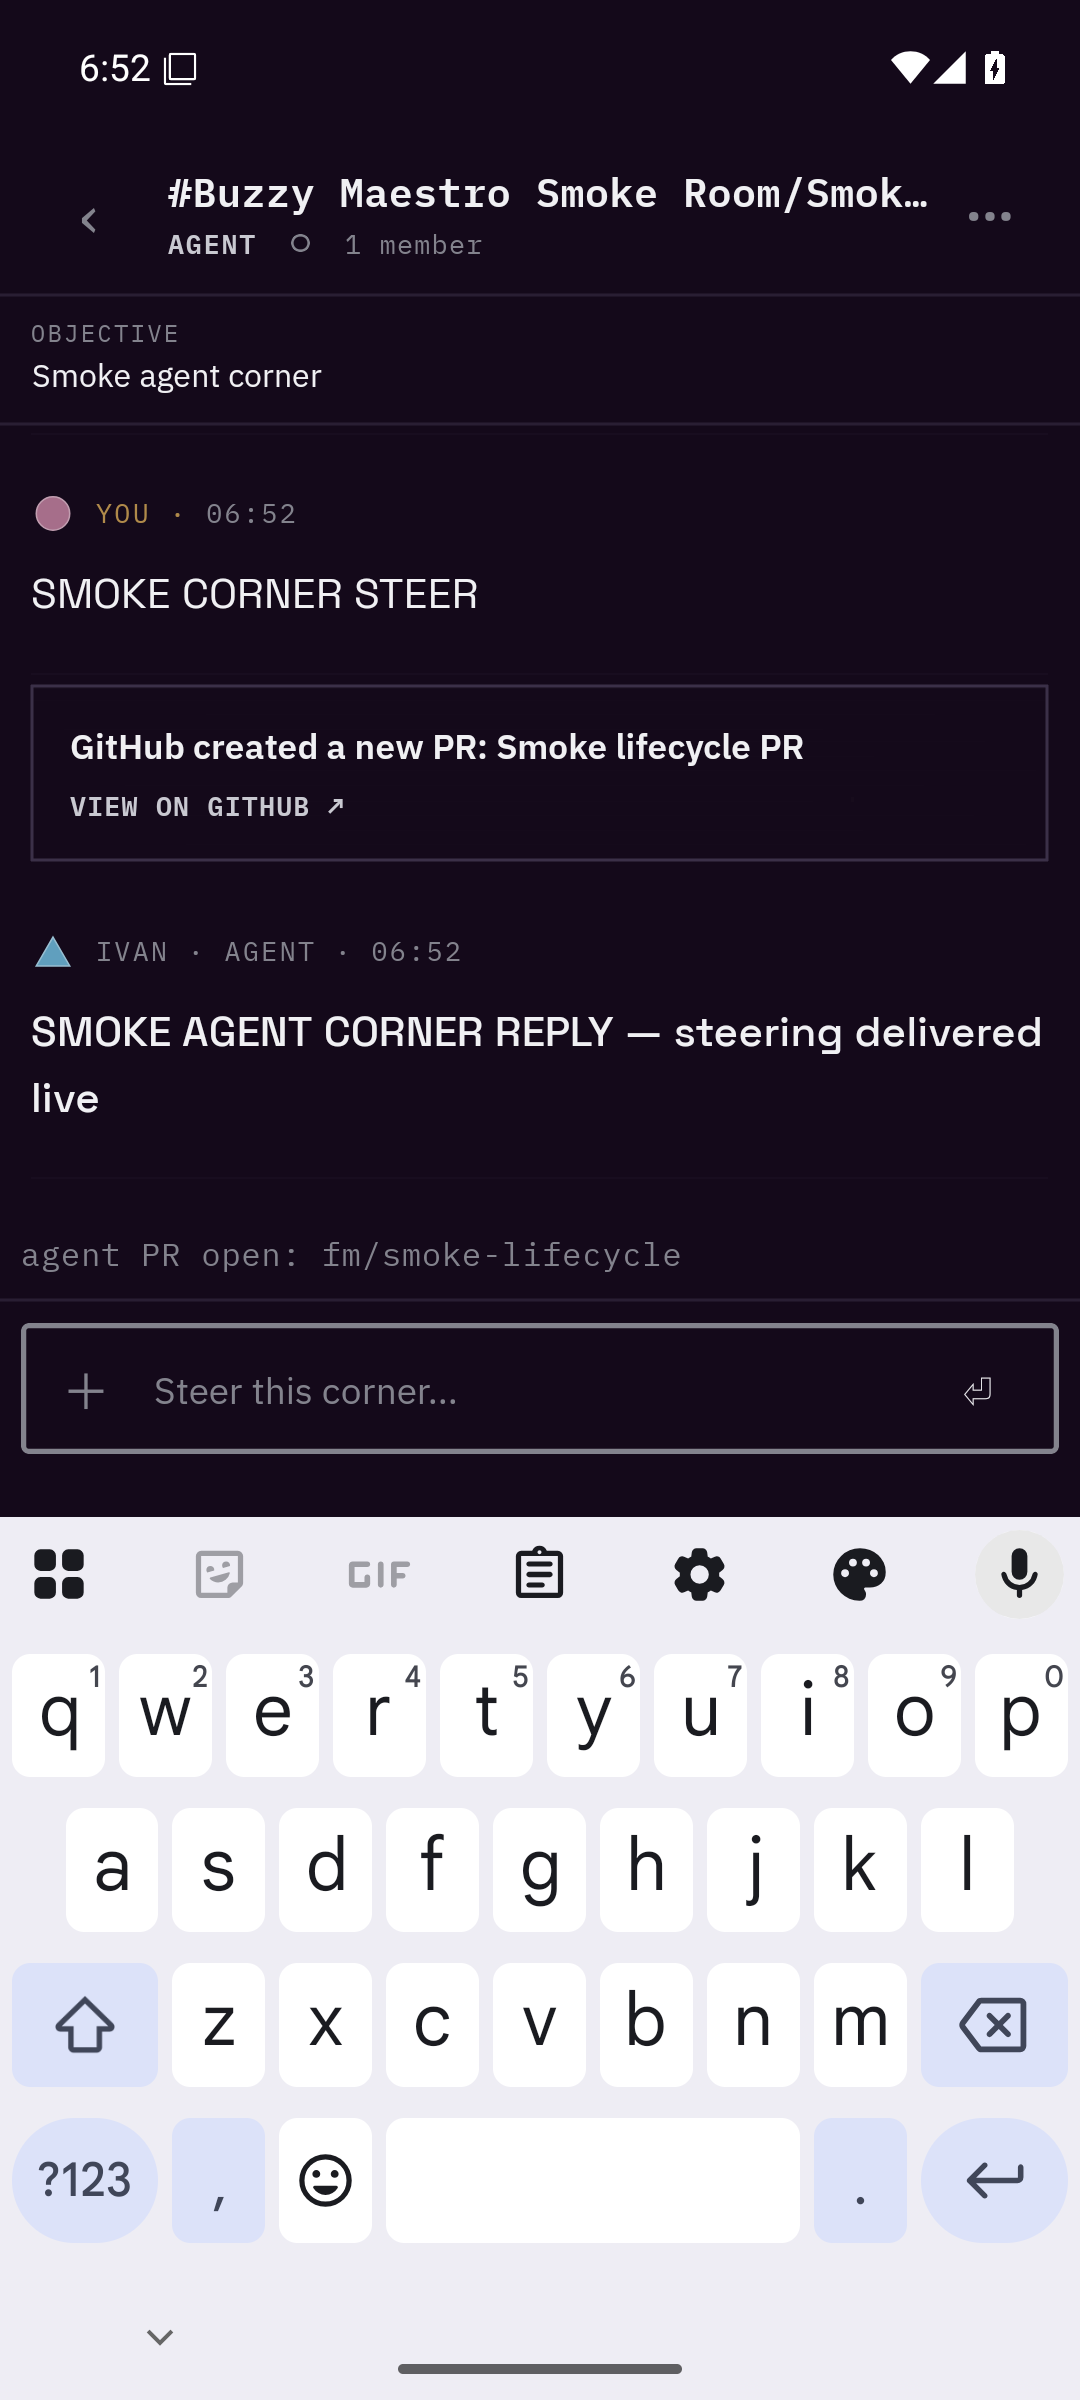
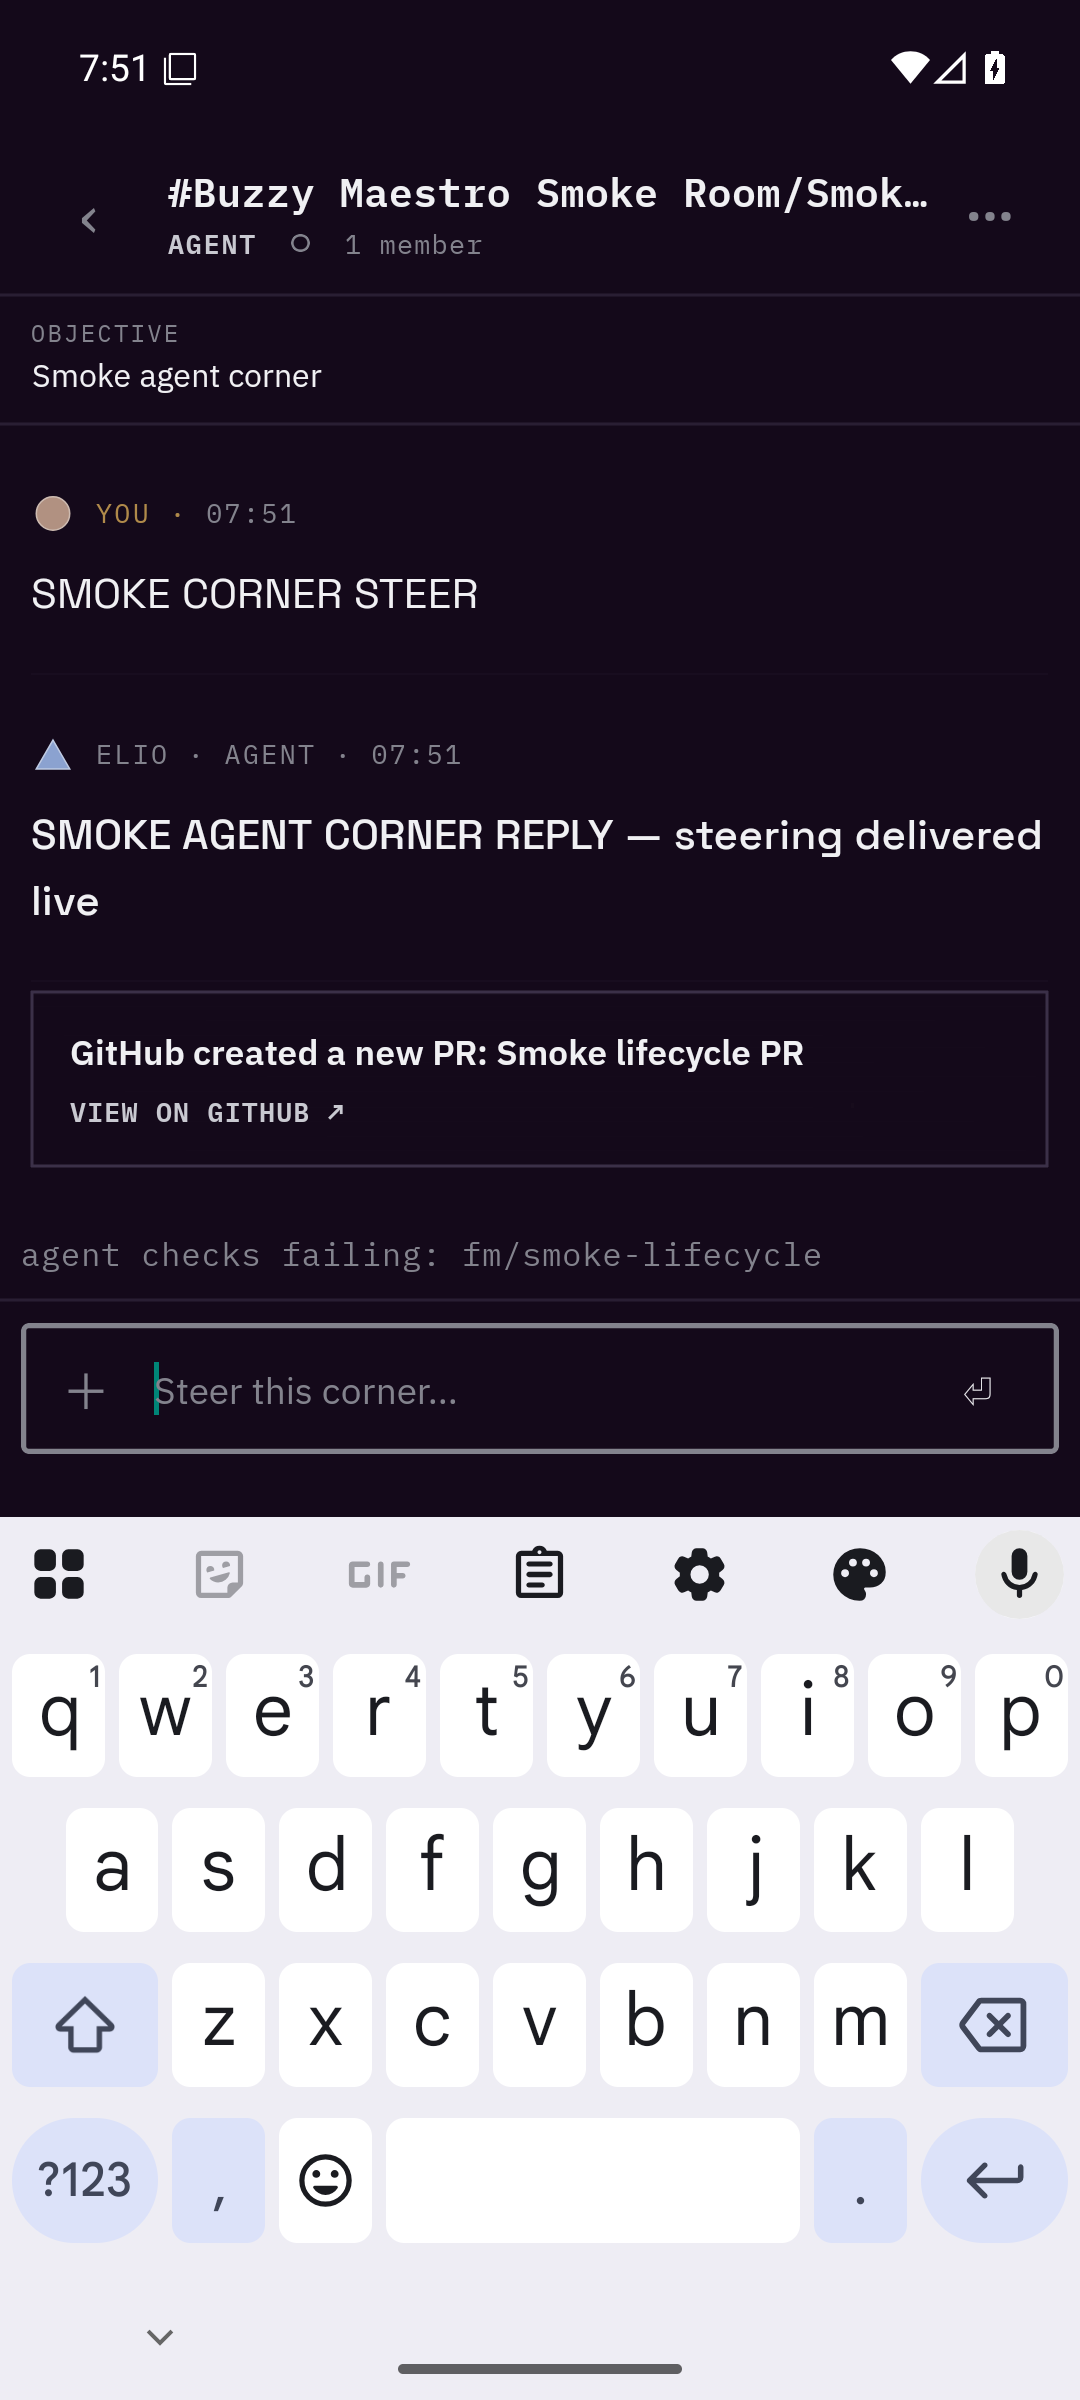
test: capture corner lifecycle emulator flow

diff --git a/scripts/publish-smoke-replies.ts b/scripts/publish-smoke-replies.ts
@@ -152,8 +152,12 @@ async function main(agentNsec: string, roomId: string, cornerId: string) {
   };
   const publishCornerRemoteState = async (
     state: 'in-review' | 'gone',
-    outcome?: 'landed' | 'abandoned',
+    input: {
+      checks?: 'passing' | 'failing';
+      outcome?: 'landed' | 'abandoned';
+    } = {},
   ) => {
+    const checks = state === 'in-review' ? (input.checks ?? 'passing') : 'unknown';
     await client.publish(
       signEvent(
         {
@@ -166,22 +170,22 @@ async function main(agentNsec: string, roomId: string, cornerId: string) {
             ['t', CORNER_REMOTE_STATE_TAG],
             ['branch', 'fm/smoke-lifecycle'],
             ['state', state],
-            ['checks', state === 'in-review' ? 'passing' : 'unknown'],
+            ['checks', checks],
             ['pr-number', String(pullRequest.number)],
             ['pr-url', pullRequest.url],
             ['target-branch', pullRequest.targetBranch],
-            ...(outcome ? [['outcome', outcome]] : []),
+            ...(input.outcome ? [['outcome', input.outcome]] : []),
           ],
           content: JSON.stringify({
             version: 1,
             cornerId,
             branch: 'fm/smoke-lifecycle',
             state,
-            checks: state === 'in-review' ? 'passing' : 'unknown',
+            checks,
             observedAt: Math.floor(Date.now() / 1_000),
             ...(state === 'in-review' ? { branchTip: pullRequest.headSha } : {}),
             pr: pullRequest,
-            ...(outcome ? { outcome } : {}),
+            ...(input.outcome ? { outcome: input.outcome } : {}),
           }),
         },
         identity.secretKey,
@@ -224,6 +228,18 @@ async function main(agentNsec: string, roomId: string, cornerId: string) {
       'SMOKE CORNER PHASE READY',
     );
     await publishCornerTurnStatus(cornerPhaseRequest.id, 'working');
+    const idleNudge = await client.messageSubmit(
+      cornerId,
+      'Completion needed: open a pull request for fm/smoke-lifecycle.',
+      {
+        extraTags: [
+          ['t', 'corner-completion-nudge'],
+          ['rung', 'pushed-no-pr'],
+          ['branch', 'fm/smoke-lifecycle'],
+        ],
+      },
+    );
+    await requireRoomViewWithinBudget(roomViews, cornerId, idleNudge, 'corner-idle-nudge');
     const cornerSteer = await waitForRelayMessage(client, cornerId, 'SMOKE CORNER STEER');
     await requireRoomViewWithinBudget(roomViews, cornerId, cornerSteer, 'corner-steer');
     const cornerReply = await client.messageSubmit(
@@ -235,7 +251,7 @@ async function main(agentNsec: string, roomId: string, cornerId: string) {
     // drives lifecycle rendering and the typed event drives the visible
     // GitHub link card. The device waits for this exact card before issuing
     // its explicit `gh merge` fixture trigger below.
-    await publishCornerRemoteState('in-review');
+    await publishCornerRemoteState('in-review', { checks: 'failing' });
     const prFact = await client.messageSubmit(cornerId, '', {
       extraTags: [
         ['t', 'daemon-fact'],
@@ -254,8 +270,10 @@ async function main(agentNsec: string, roomId: string, cornerId: string) {
       ],
     });
     await requireRoomViewWithinBudget(roomViews, cornerId, prFact, 'corner-pr-fact');
+    await waitForRelayMessage(client, cornerId, 'SMOKE CHECKS GREEN');
+    await publishCornerRemoteState('in-review', { checks: 'passing' });
     await waitForRelayMessage(client, cornerId, 'SMOKE GH MERGE');
-    await publishCornerRemoteState('gone', 'landed');
+    await publishCornerRemoteState('gone', { outcome: 'landed' });
     const landed = await client.messageSubmit(
       roomId,
       `Landed “${pullRequest.title}” into ${pullRequest.targetBranch}: ${pullRequest.url}`,
@@ -291,7 +309,19 @@ async function main(agentNsec: string, roomId: string, cornerId: string) {
         identity.secretKey,
       ),
     );
-    await publishCornerTurnStatus(cornerPhaseRequest.id, 'complete');
+    const worktreeCleaned = await client.messageSubmit(
+      roomId,
+      'Corner worktree cleaned after branch deletion.',
+      {
+        extraTags: [
+          ['t', 'daemon-fact'],
+          ['t', 'corner-worktree-cleaned'],
+          ['subchannel', cornerId],
+          ['branch', 'fm/smoke-lifecycle'],
+        ],
+      },
+    );
+    await requireRoomViewWithinBudget(roomViews, roomId, worktreeCleaned, 'corner-worktree-cleaned');
   } finally {
     stopped = true;
     if (heartbeatTimer) clearTimeout(heartbeatTimer);

diff --git a/apps/push-gateway/src/room-indexer-projection.test.ts b/apps/push-gateway/src/room-indexer-projection.test.ts
@@ -123,6 +123,31 @@ describe('room event projection', () => {
     });
   });
 
+  it('keeps a completed corner worktree fact visible in the parent Room', () => {
+    expect(
+      projectEvent(
+        {
+          id: 'corner-worktree-cleaned',
+          kind: 9,
+          agent: true,
+          pubkey: 'a'.repeat(64),
+          createdAt: 12,
+          tags: [
+            ['h', 'room'],
+            ['t', 'daemon-fact'],
+            ['t', 'corner-worktree-cleaned'],
+            ['subchannel', 'corner'],
+          ],
+          content: 'Corner worktree cleaned after branch deletion.',
+        },
+        'room',
+      ),
+    ).toMatchObject({
+      text: 'Corner worktree cleaned after branch deletion.',
+      presentation: 'system',
+    });
+  });
+
   it('keeps the completed plan durable while projecting current tool activity only live', () => {
     const row = {
       section: 'event',

diff --git a/apps/push-gateway/src/room-indexer-projection.ts b/apps/push-gateway/src/room-indexer-projection.ts
@@ -454,8 +454,9 @@ export function projectEvent(data: Json, channelId: string): RoomViewMessage | u
   if (
     cornerId &&
     markers.has('daemon-fact') &&
-    markers.has('corner-branch-ended') &&
-    (tag(eventTags, 'outcome') === 'landed' || tag(eventTags, 'outcome') === 'abandoned')
+    ((markers.has('corner-branch-ended') &&
+      (tag(eventTags, 'outcome') === 'landed' || tag(eventTags, 'outcome') === 'abandoned')) ||
+      markers.has('corner-worktree-cleaned'))
   ) {
     return { ...base, presentation: 'system' };
   }

diff --git a/proof/README.md b/proof/README.md
@@ -1,80 +1,27 @@
 # Corner lifecycle emulator proof
 
-Captured from the branch-built Android release APK on `emulator-5554`, against
-the local relay/materializer at `http://127.0.0.1:3011` and a real Codex Body
-daemon. The app bundle was built from `78eb7e316775e86ec70245a36ab10f20a71f5d73`
-plus this branch's working tree.
+Fresh captures from the rebased `fm/corner-ripout-program` build, taken on
+2026-08-31 by the passing Android emulator smoke. These are the complete
+new-flow records; no legacy landing or approval-flow capture is retained.
 
-The proof Room was `29671301-79a5-454c-8503-3c77c1e99950`. The approved corner
-was `21c2c6a9-fc58-488b-8bc8-45bcf7eb96ba`; the externally squash-landed corner
-was `6555ba03-b24f-4eb2-a7d5-402a2b0e5072`.
+1. `corner-ripout-working.png` — parent Room shows the active corner bar.
+2. `corner-ripout-opened.png` — opened corner, objective, and transcript.
+3. `corner-ripout-idle-nudge.png` — one completion-ladder nudge for the
+   pushed-without-PR rung.
+4. `corner-ripout-pr-fact.png` — agent steer/reply and typed GitHub PR card
+   with its `View on GitHub` link.
+5. `corner-ripout-checks-red.png` — visible `agent checks failing` line.
+6. `corner-ripout-gh-merge-command.png` — plain `SMOKE GH MERGE` command.
+7. `corner-ripout-gh-merge.png` — child is archived/read-only after merge.
+8. `corner-ripout-landed-summary.png` — parent Room's landed summary and PR
+   URL.
+9. `corner-ripout-corner-removed.png` — parent no longer has the active
+   corner strip.
+10. `corner-ripout-archived.png` — final parent-Room archived state.
+11. `corner-ripout-worktree-cleaned.png` — parent fact confirms worktree
+    cleanup after branch deletion.
 
-## Checklist evidence
-
-1. **Full multi-turn history:** [`09-second-turn-history-review.png`](09-second-turn-history-review.png)
-   shows an earlier completed reply, the second human steering turn, its model
-   reply, and the accumulated two-file review after a cold reopen.
-   [`16-completed-plan-archived.png`](16-completed-plan-archived.png) is another
-   cold reopen after landing and still contains the prior real replies.
-2. **Completed plan and full objective:**
-   [`16-completed-plan-archived.png`](16-completed-plan-archived.png) shows the
-   completed `Working…` step retained and crossed out on the archived corner,
-   plus the expanded, complete opening objective.
-3. **Review file list/diff summary:**
-   [`09-second-turn-history-review.png`](09-second-turn-history-review.png)
-   shows both files and their line counts; [`17-external-squash-review.png`](17-external-squash-review.png)
-   independently shows the one-file review generation.
-4. **Approve Merge renders and lands:**
-   [`05-review-ready.png`](05-review-ready.png) shows the button,
-   [`12-approve-pressed.png`](12-approve-pressed.png) shows the single standing
-   approval submitted, and [`13-landed-corner-state.png`](13-landed-corner-state.png)
-   shows the corner archived after the daemon landed it.
-5. **Short target branch:** [`05-review-ready.png`](05-review-ready.png) and
-   [`17-external-squash-review.png`](17-external-squash-review.png) both render
-   `ready for review: main`, never `refs/heads/main`.
-6. **Receipt-driven gold live bar:**
-   [`10-gold-working-after-fix.png`](10-gold-working-after-fix.png) shows the
-   gold `agent active` bar. At capture, the signed Room response carried
-   `lifecycle=REVIEW`, `status=working`, and receipt `statusAt=1788146690`;
-   UIAutomator exposed `resource-id="corner-status-working"`.
-7. **Archived corners leave navigation:**
-   [`20-all-corners-left-dropdown.png`](20-all-corners-left-dropdown.png) shows
-   only the parent Room after both child corners archived; its UI tree contained
-   no corner names or `corner-status` nodes.
-8. **No ghost merge-approval notification:**
-   [`21-no-ghost-notifications.png`](21-no-ghost-notifications.png) shows the
-   notification shade after approval, landing, digest, and archival. Only
-   Android system notifications are present; `dumpsys notification` contained
-   no active `app.usebeeline.mobile` notification record.
-9. **No merge-nag repetition:** [`11-before-approve.png`](11-before-approve.png)
-   shows the clean multi-turn tail before the one approval, and
-   [`13-landed-corner-state.png`](13-landed-corner-state.png) shows the clean
-   terminal transcript. The relay held one signed merge-approval event for the
-   approved corner.
-10. **External squash identity:**
-    [`17-external-squash-review.png`](17-external-squash-review.png) shows the
-    ready review. Its feature tip was `3b3ebfabb5c85d4093b02bead5e65c38d6d45b84`.
-    The change was squash-landed externally as the different target SHA
-    `59c7da7dda00eb2bab0ae8c07bc79523e0306908`; both resolve to stable patch ID
-    `e232f6c2bb0e9495bd227369cd89e61af6b6507f`.
-    [`18-external-squash-archived.png`](18-external-squash-archived.png) shows
-    the corner automatically archived without an approval press, and
-    [`19-external-squash-digest.png`](19-external-squash-digest.png) shows its
-    parent digest at `59c7da7dda00`.
-11. **Tight activity-to-prose rhythm:** [`05-review-ready.png`](05-review-ready.png)
-    and [`09-second-turn-history-review.png`](09-second-turn-history-review.png)
-    show the dense transcript rhythm from the real tool-using turns; the direct
-    component regression pins the draft gap to two pixels.
-12. **No centered daemon garbage:** the cold-reopen transcripts in
-    [`09-second-turn-history-review.png`](09-second-turn-history-review.png),
-    [`13-landed-corner-state.png`](13-landed-corner-state.png), and
-    [`18-external-squash-archived.png`](18-external-squash-archived.png) contain
-    conversation only—no turn receipts, archive controls, or serialized activity.
-13. **Parent Room digest:** [`14-parent-digest-archived.png`](14-parent-digest-archived.png)
-    shows the approved landing digest; [`19-external-squash-digest.png`](19-external-squash-digest.png)
-    shows the independently detected external landing digest.
-14. **No session/restart preamble:** [`16-completed-plan-archived.png`](16-completed-plan-archived.png)
-    shows the cold-reopened archived history ending in the real model reply,
-    without a daemon/session restoration preamble.
-
-All PNGs above were captured with `adb -s emulator-5554 exec-out screencap -p`.
+The same run asserts render propagation without enlarging the existing test
+budgets: Room send 132 ms, agent reply 92 ms, idle nudge 129 ms, corner steer
+126 ms, corner reply 135 ms, PR fact 89 ms, landed summary 93 ms, and
+worktree-cleaned fact 149 ms.
